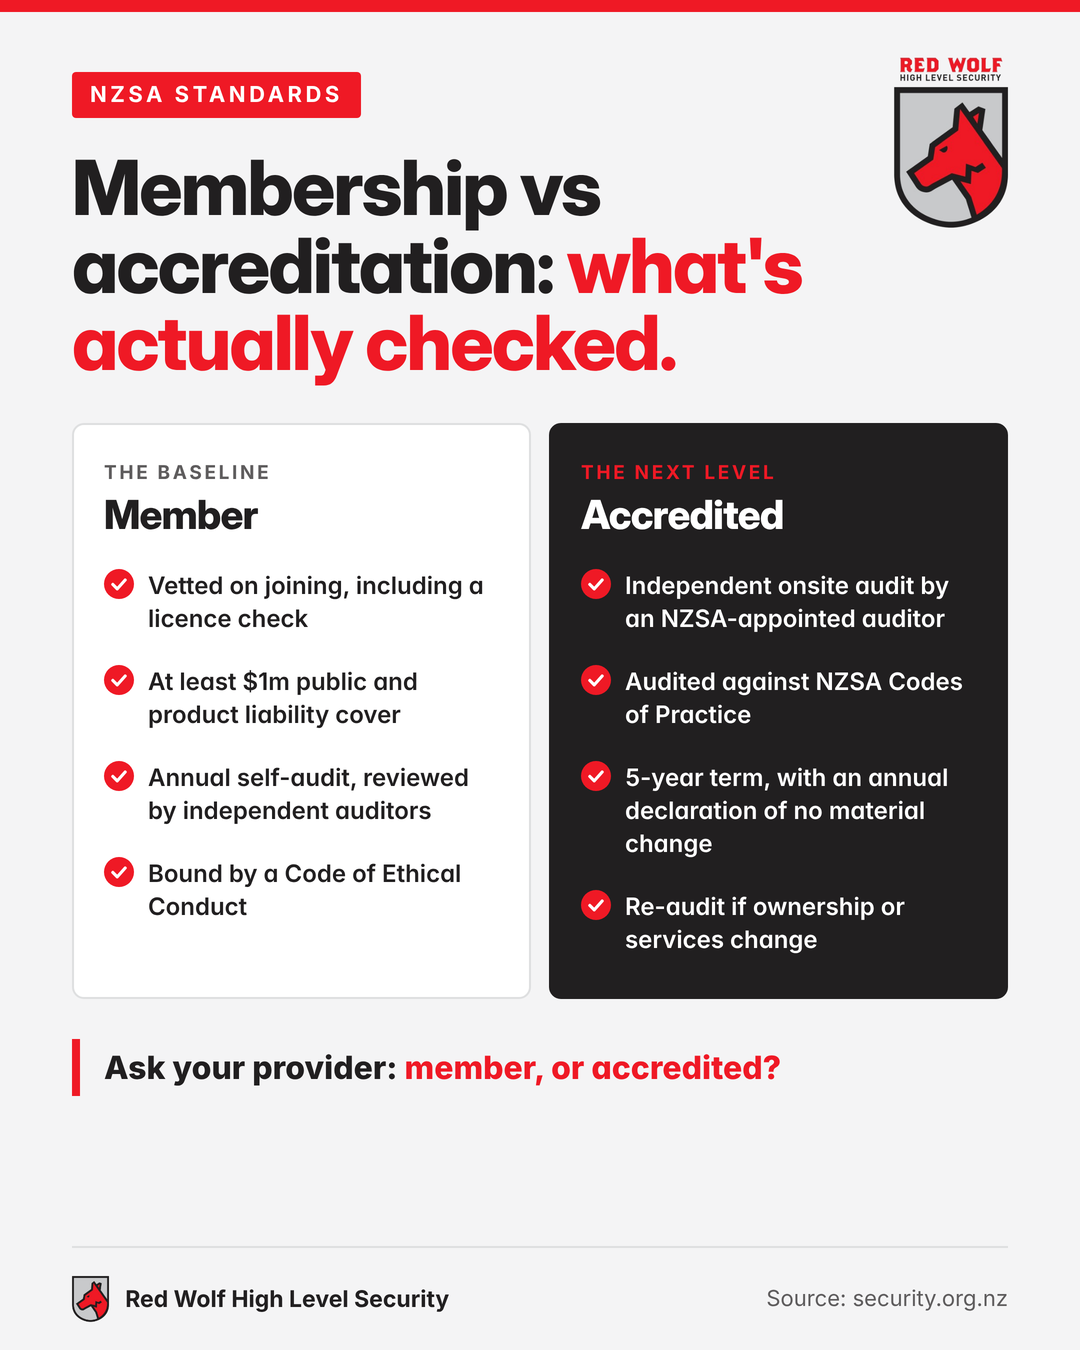
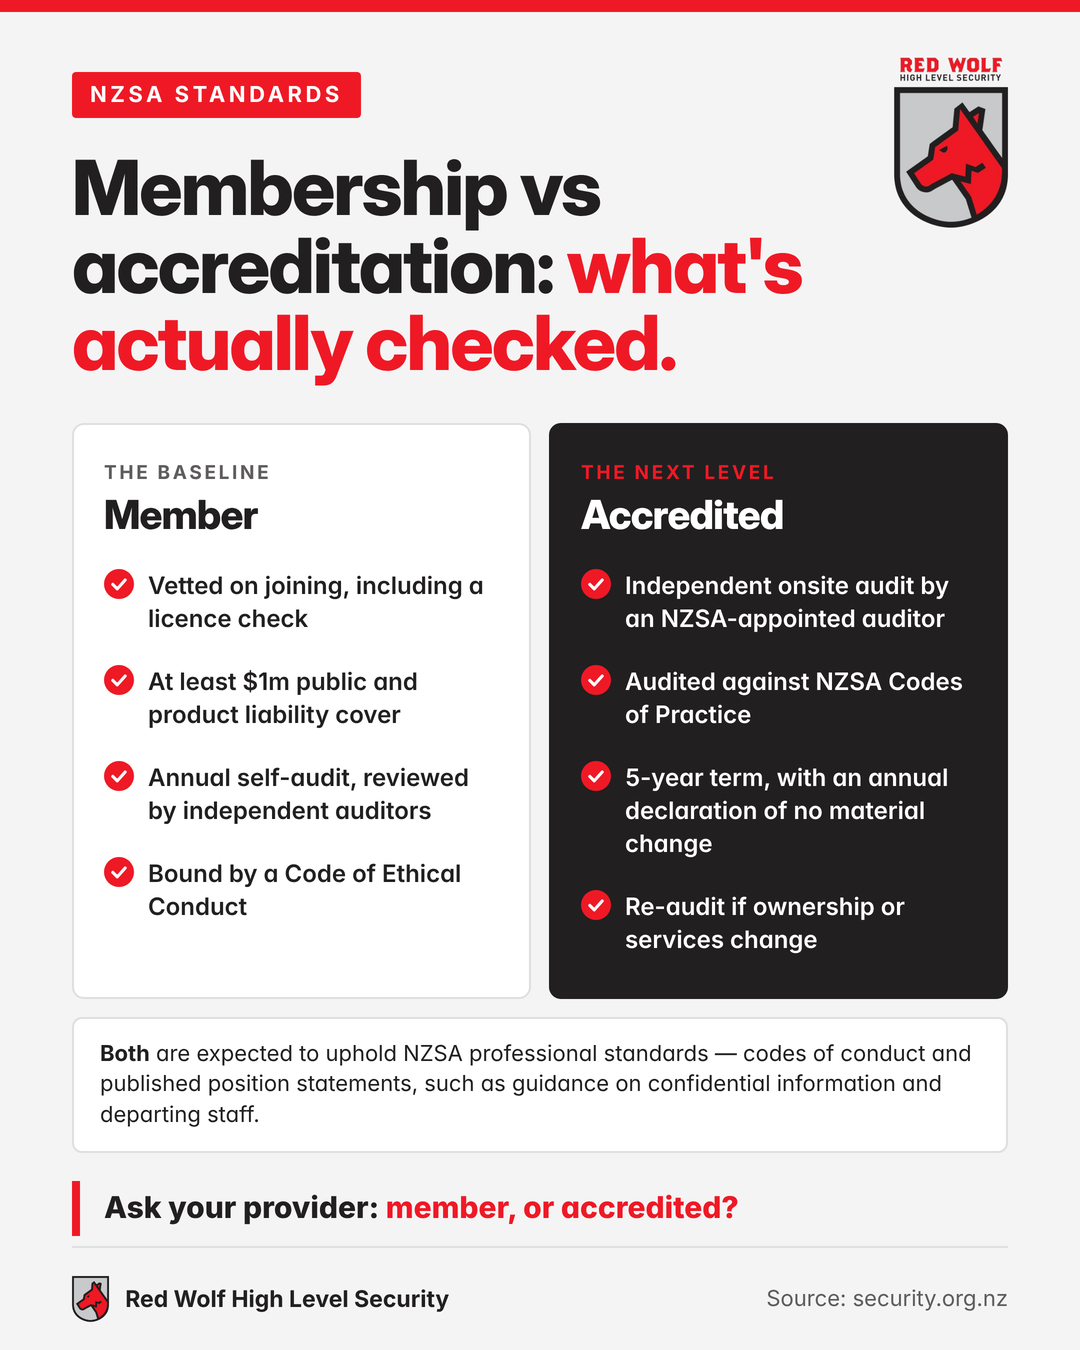
Update week 41 media to match LinkedIn-research rewrite
Refresh post-013, 014, 016, 017 and 018 graphics in place to match the
revised copy in 50491bb; log changes in COULD/ASSET-2026Q3.md.

Claude-Session: https://claude.ai/code/session_01UfRZZ2k7A3sNFeQ6Lez9sn

Changed region(s): [[0.0611, 0.7778, 0.8861, 0.84], [0.0611, 0.8711, 0.7028, 0.9333]]

diff --git a/COULD/ASSET-2026Q3.md b/COULD/ASSET-2026Q3.md
@@ -2,6 +2,20 @@ ASSET LOG
 
 ####### <!-- ANCHOR MARKER - ADD ALL NEW ASSET ENTRIES DIRECTLY BELOW THIS LINE -->
 
+## ASSET:redwolf 2026-10-13 23:00 -> Week 41 media updated for LinkedIn-research rewrite (commit 50491bb)
+
+**Media URLs unchanged** (same filenames, all 18 table links return 200). Files updated in place:
+- post-013 access-control.png — capabilities now match copy: real-time door monitoring, tailgating alerts, audit trail, instant lockdown (replaced time-based permissions and CCTV-linked events). No Gallagher branding on the graphic.
+- post-014 physical-threats.png — tag changed to "Cybersecurity Awareness Month".
+- post-016 industry-involvement.png — four items: NZSA working groups, position statements, technician training, industry events and awards (NZSA awards).
+- post-017 nzsa-accreditation.png — added note that members and accredited members are expected to uphold NZSA professional standards (codes of conduct, position statements incl. confidential information and departing staff, Sept 2026).
+- post-018 did-you-know.png — assumptions 4 and 5 now match copy: visitor management stops at the front desk; no security audit since the last fit-out.
+- post-015 unchanged.
+
+**Source checked:** security.org.nz/position-statements — "Prof Standards: Confidential Info & Departing Staff - Sept 2026" exists.
+
+**Still open:** post-017 copy still attributes the membership requirements (annual self-audit reviewed by independent auditors) to accreditation; "current licences across every technician" is not stated by NZSA for accreditation. post-016: verify Red Wolf's actual working-group, position-statement and awards involvement. post-018: verify "two decades in the field".
+
 ## ASSET:redwolf 2026-10-13 22:45 -> Week 41 media regenerated for redone batch (commit d41340c)
 
 **Why:** d41340c replaced all six week 41 posts (new subtopics, titles, descriptions, media briefs) and reset media URLs to non-existent placeholders. None of the previous week 41 graphics fit; all six replaced and the old files removed (still in git history).
